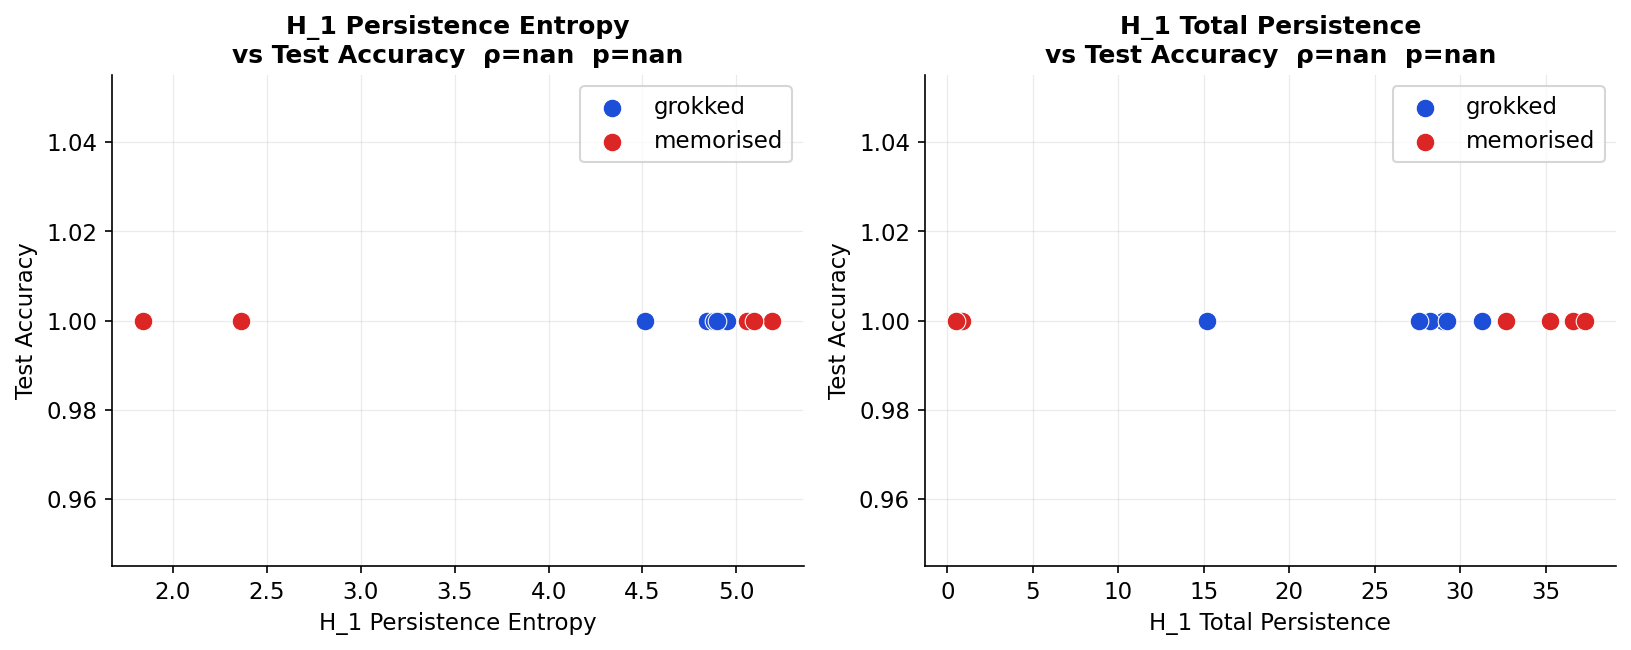
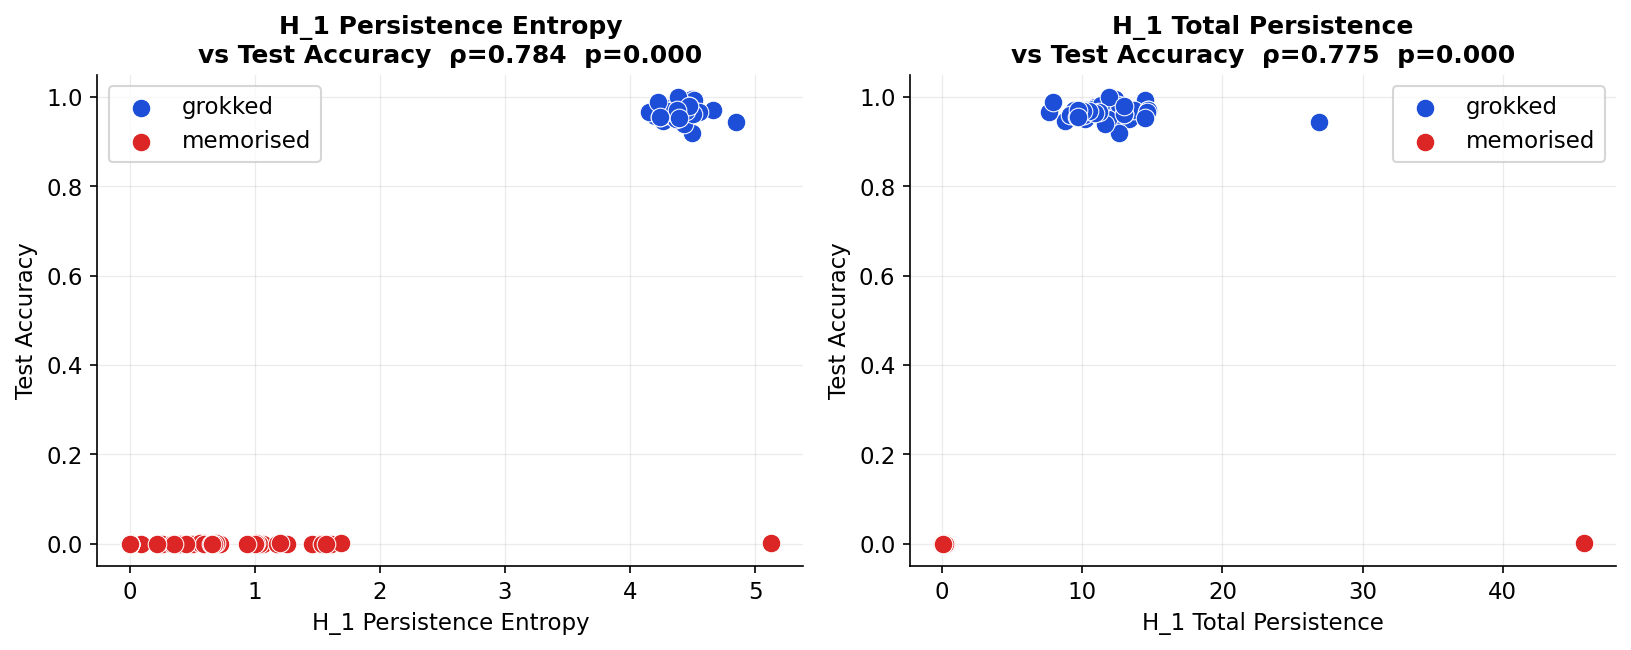
Default training device to CPU with GROK_DEVICE override; restore d=1 baseline
- Replace the cuda/cpu hardcode with _pick_device(): auto-selects CUDA
  when available, otherwise CPU. Force any backend with GROK_DEVICE=mps|cpu|cuda.
  MPS lost to single-process CPU at d=1 and to multi-process CPU at d=2
  on M1 Max in benchmarks, so it is no longer auto-selected.
- Revert MODULI=[47], N_RUNS=50 (the reproducible d=1 baseline).
- Refresh all figures from a fresh d=1 run.

diff --git a/scripts/tda_for_neural_networks.py b/scripts/tda_for_neural_networks.py
@@ -20,6 +20,7 @@ Runtime: ~22s per run on CPU for d=1. d=2 raises the cost of compute_ph
 (VR up to H_2). For d ≥ 3, expect minutes per checkpoint in §5.
 """
 
+import os
 import time
 import warnings
 from collections import defaultdict
@@ -65,7 +66,7 @@ plt.rcParams.update({
 C = {"grokked": "#1d4ed8", "memorised": "#dc2626",
      "h0": "#7c3aed", "h1": "#059669", "accent": "#f59e0b"}
 
-DEVICE = torch.device("cuda" if torch.cuda.is_available() else "cpu")
+# DEVICE is set after MODULI/TRAIN_FRAC below (the MPS branch needs train_n).
 
 # All figures land here, regardless of cwd when the script is invoked.
 PROJECT_ROOT = Path(__file__).resolve().parent.parent
@@ -80,14 +81,14 @@ def figpath(name):
 # ── §1. Group, dataset, model ─────────────────────────────────────────────
 # MODULI is the master knob. len(MODULI) = d = expected number of circles
 # in the grokked weight cloud. β_k predicted = C(d, k).
-MODULI     = [11,11]           # try [17, 17] for T^2, [11, 11, 11] for T^3, ...
+MODULI     = [47]           # try [17, 17] for T^2, [11, 11, 11] for T^3, ...
 TRAIN_FRAC = 0.40
 HIDDEN     = 128
 N_EPOCHS   = 12_000
 LR         = 1e-3
 WD_GROK    = 5.0
 WD_MEM     = 0.0
-N_RUNS     = 6
+N_RUNS     = 50
 
 # Derived
 D       = len(MODULI)
@@ -99,6 +100,24 @@ CKPT_EPOCHS = sorted(set(
     [1, 5, 10, 25, 50, 100, 200, 500]
     + list(np.unique(np.logspace(np.log10(500), np.log10(N_EPOCHS), 35).astype(int)))
 ))
+
+
+def _pick_device():
+    """Choose cuda/mps/cpu. CPU is the default on Mac: on M1 Max the
+    eventual sweep parallelism (50 independent runs) beats MPS even at
+    d=2, and MPS is strictly worse at d=1. CUDA is used automatically
+    when available. Force MPS with GROK_DEVICE=mps if you want to test
+    it on a different machine."""
+    override = os.environ.get("GROK_DEVICE", "").strip().lower()
+    if override:
+        return torch.device(override)
+    if torch.cuda.is_available():
+        return torch.device("cuda")
+    return torch.device("cpu")
+
+
+DEVICE = _pick_device()
+print(f"[device] {DEVICE}")
 
 
 def make_dataset(moduli=None, frac=TRAIN_FRAC, seed=0):
